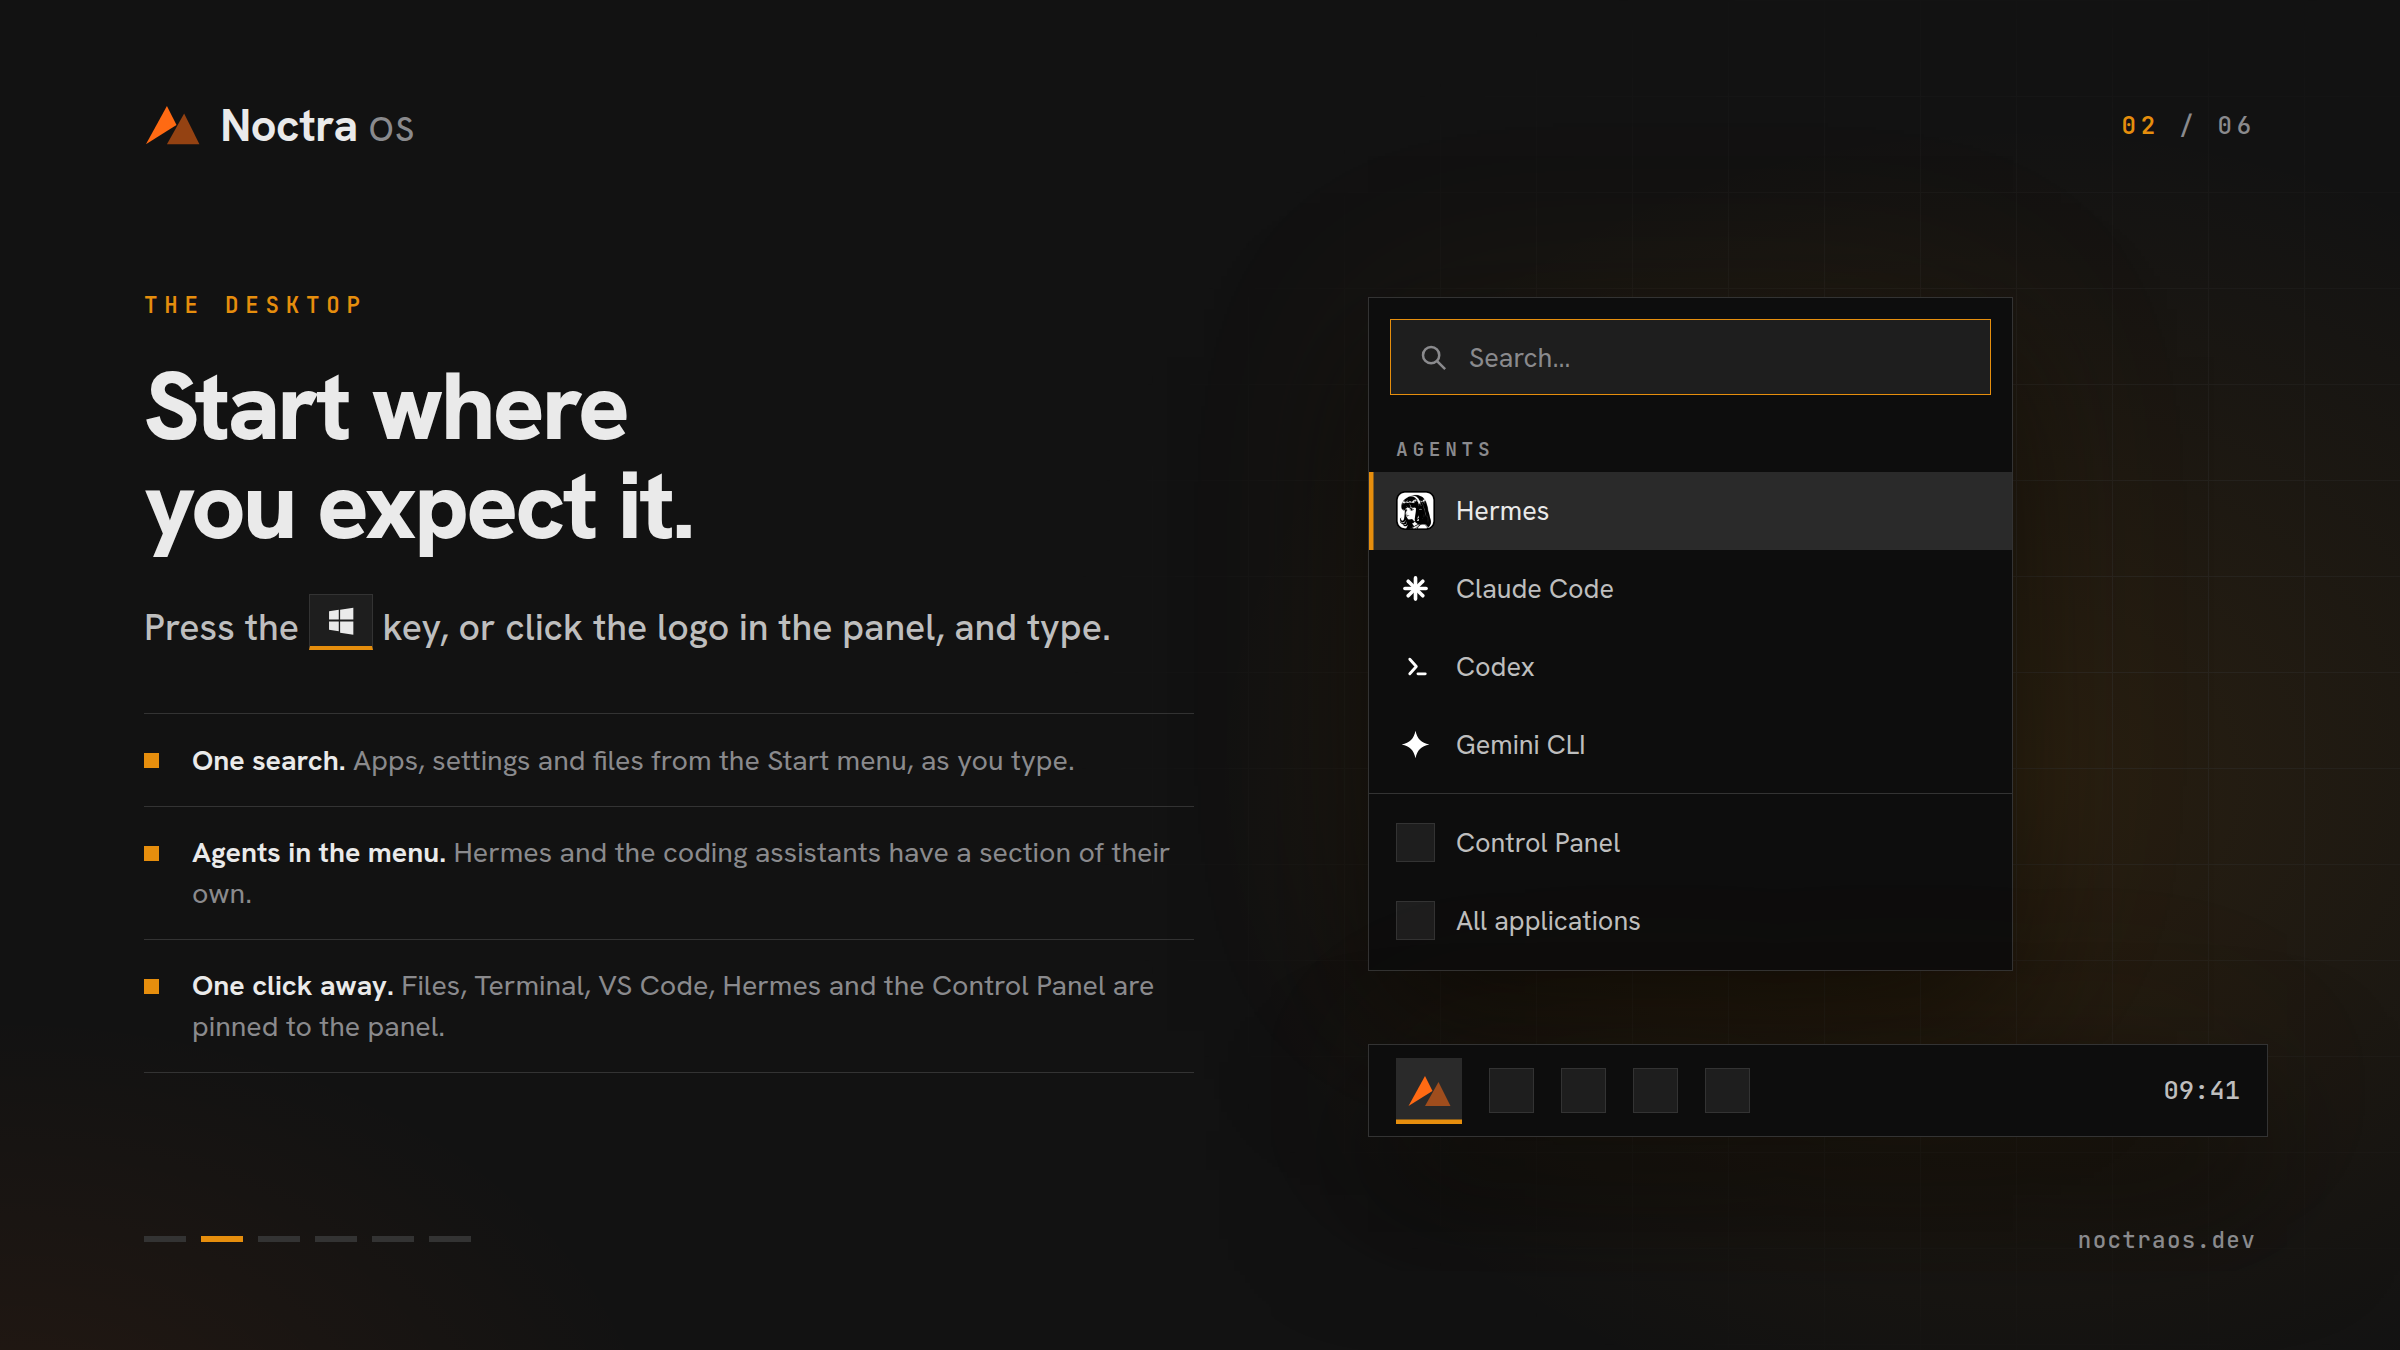
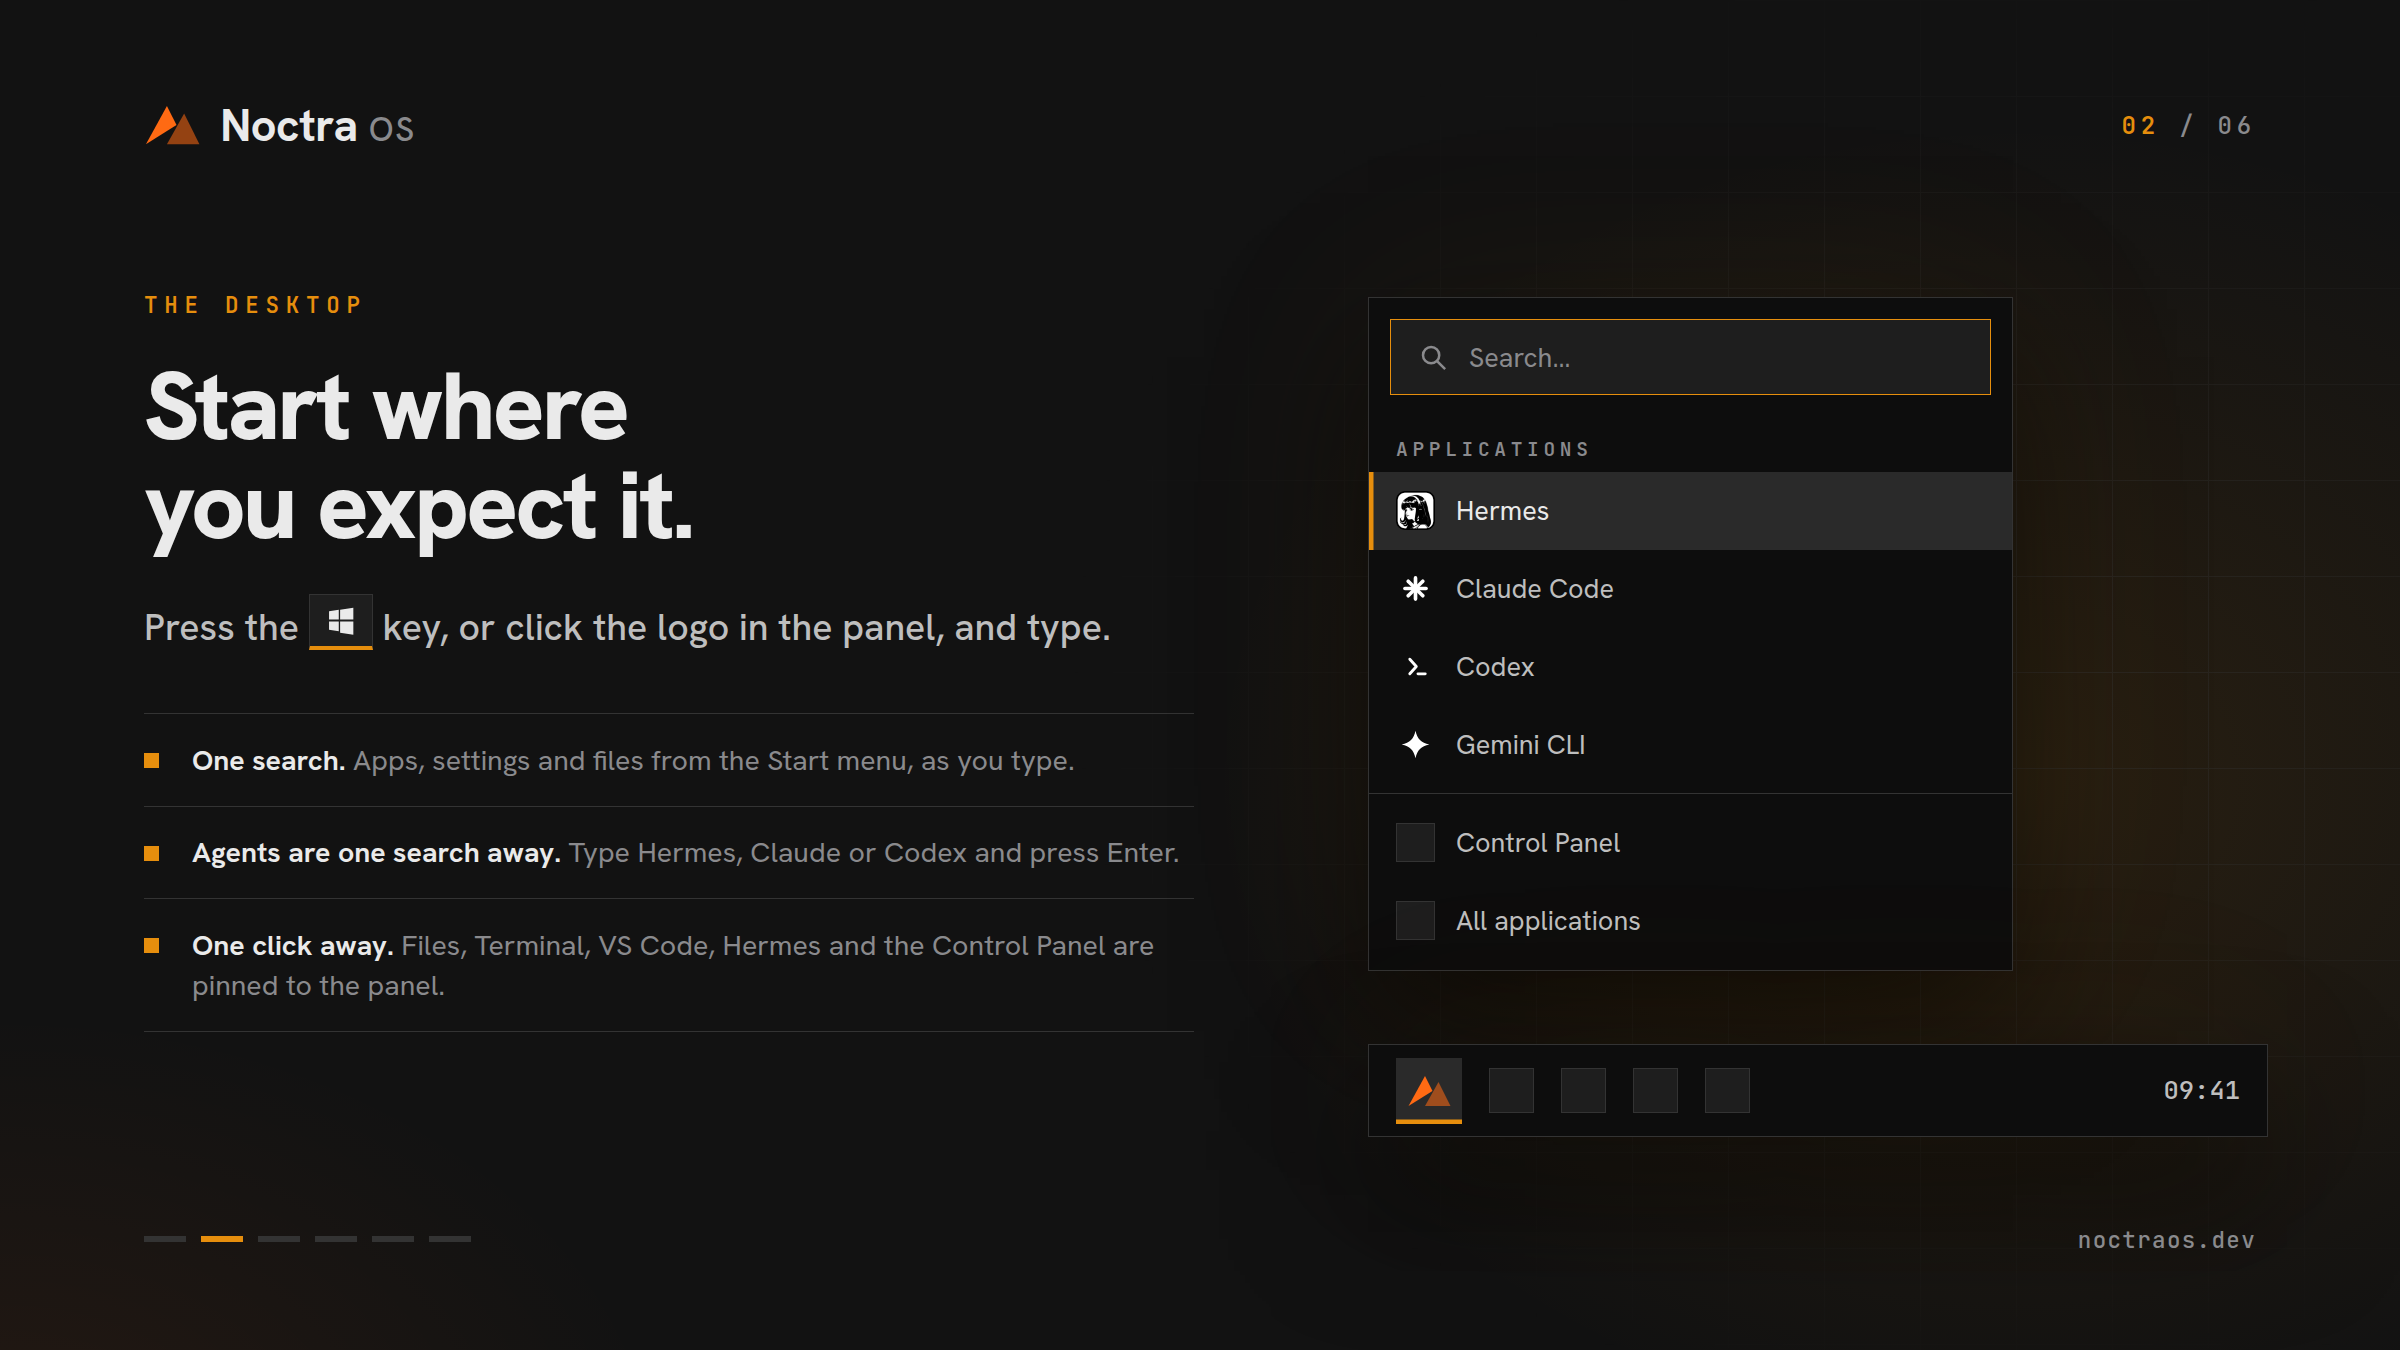
[kubuntu] Installer slide 2 no longer promises an Agents Start menu
The Plasma flavour has no AI-first Kickoff categories yet. The slide's bullet
now says agents are one search away (true: Meta+Space lists them) and the
mock-up groups them under "Applications" like KRunner does. Only slide 2
re-rendered; the other five are byte-identical.

Tested: kubuntu, rendered with scripts/render-kubuntu-branding.py calamares,
slide viewed. Unit suite 810 OK. Not tested: a rebuilt ISO. Published 0.5.0
ISOs keep the old slide.

Changed region(s): [[0.0625, 0.6533, 0.4688, 0.7778], [0.125, 0.6222, 0.5, 0.6533], [0.625, 0.3111, 0.6562, 0.3422]]

diff --git a/scripts/render-kubuntu-branding.py b/scripts/render-kubuntu-branding.py
@@ -243,13 +243,13 @@ def slides():
           f'Press the <span class="key" style="font-size:18px;padding:.35em .55em;vertical-align:.12em">{WIN_KEY}</span> '
           "key, or click the logo in the panel, and type.",
           [("One search.", "Apps, settings and files from the Start menu, as you type."),
-           ("Agents in the menu.", "Hermes and the coding assistants have a section of their own."),
+           ("Agents are one search away.", "Type Hermes, Claude or Codex and press Enter."),
            ("One click away.", "Files, Terminal, VS Code, Hermes and the Control Panel are pinned to the panel.")],
           f'''<div style="position:relative;width:560px;height:560px">
   <div class="win" style="position:absolute;left:0;top:0;width:430px">
     <div class="row" style="margin:14px;border:1px solid var(--accent);background:var(--raised);color:var(--muted)">
       <span style="width:20px;height:20px;color:var(--muted)">{SEARCH}</span>Search…</div>
-    <div class="hd">Agents</div>{rows}
+    <div class="hd">Applications</div>{rows}
     <div class="sep"></div>
     <div class="row"><span class="ic"></span>Control Panel</div>
     <div class="row" style="padding-bottom:20px"><span class="ic"></span>All applications</div>

diff --git a/docs/flavours.md b/docs/flavours.md
@@ -141,7 +141,7 @@ above; "read" means found in the source. Nothing here was tried on real hardware
 
 | Issue | Evidence | Status |
 | --- | --- | --- |
-| The installer's second slide says "Agents in the menu: Hermes and the coding assistants have a section of their own", but the AI-first Kickoff categories are not implemented. | Read: slide 2 text in `scripts/render-kubuntu-branding.py`. | Wrong claim in shipped artwork. Reword the slide and re-render (`render-kubuntu-branding.py calamares`), or implement the categories. |
+| The installer's second slide says "Agents in the menu: Hermes and the coding assistants have a section of their own", but the AI-first Kickoff categories are not implemented. | Read: slide 2 text in `scripts/render-kubuntu-branding.py`. | Fixed on main (2026-10-24): the bullet now says agents are one search away and the mock-up lists search results under "Applications"; slide 2 re-rendered. The published 0.5.0 ISOs still carry the old slide. |
 | Systems installed from the published 0.5.0 ISOs that never started first-boot setup have no update-carried repair. The autostart entry is copied from `/etc/skel` into each account's `~/.config/autostart`, so a fixed ISO does not reach them. | Read: `kubuntu_firstboot` writes the entry only into `/etc/skel`. | Not addressed. A user migration could rewrite the entry for accounts that never ran setup. Until then the download page's workaround is the only fix. |
 | The first session after provisioning shows the stock Kubuntu panel (the wallpaper had already changed). The NoctraOS panel layout appears after the next login. | Seen: screenshot before the reboot vs. after. | Not addressed. Either tell the person to log out and in at the end of setup (the runner's closing text) or apply the layout live. |
 | `noc doctor` shows `!!` for Flatpak security on a fresh install: Kubuntu 26.04 ships Flatpak 1.16.6, older than 1.18.4. | Seen: `noc doctor` after provisioning. | The row works as designed (it warns until the distribution patches). No newer Flatpak is shipped; decide whether the ISO should (roadmap idea in `AGENTS.md`). |
